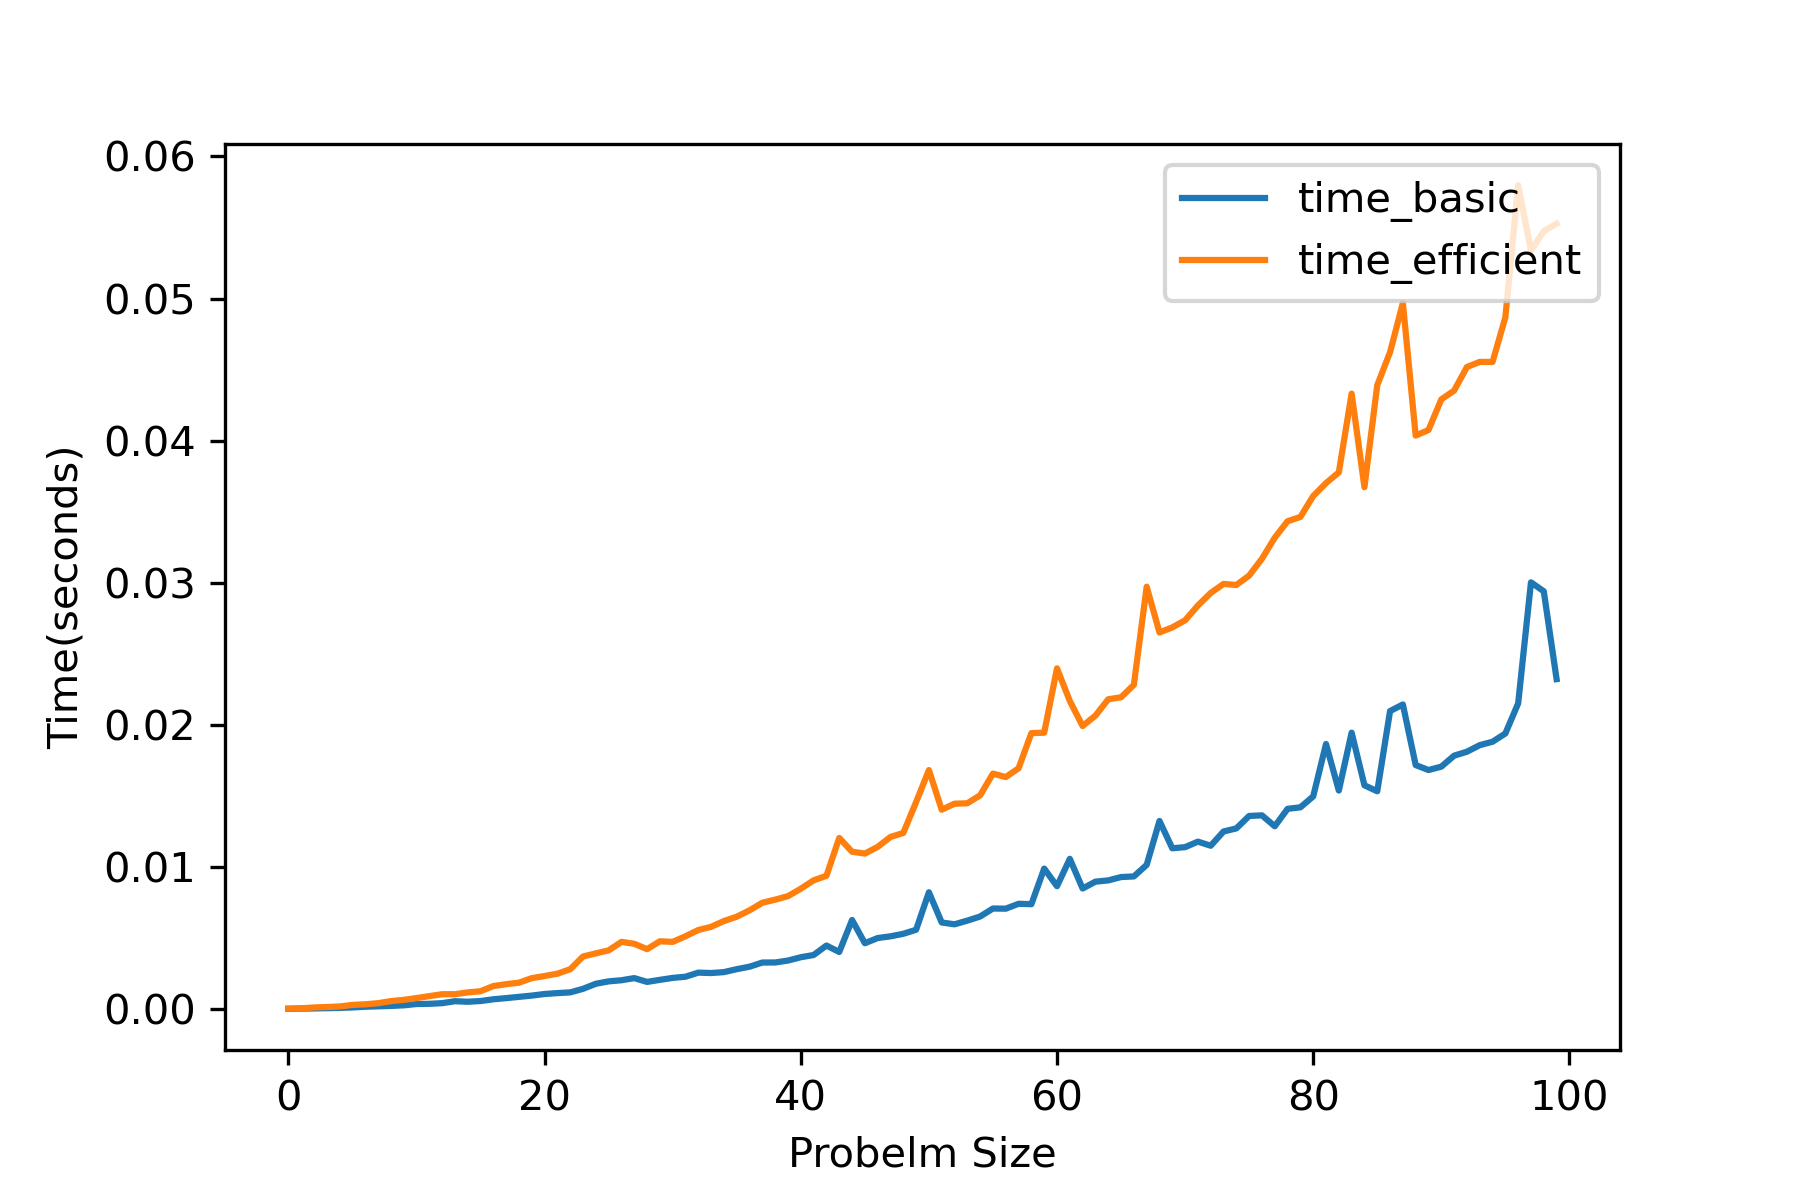
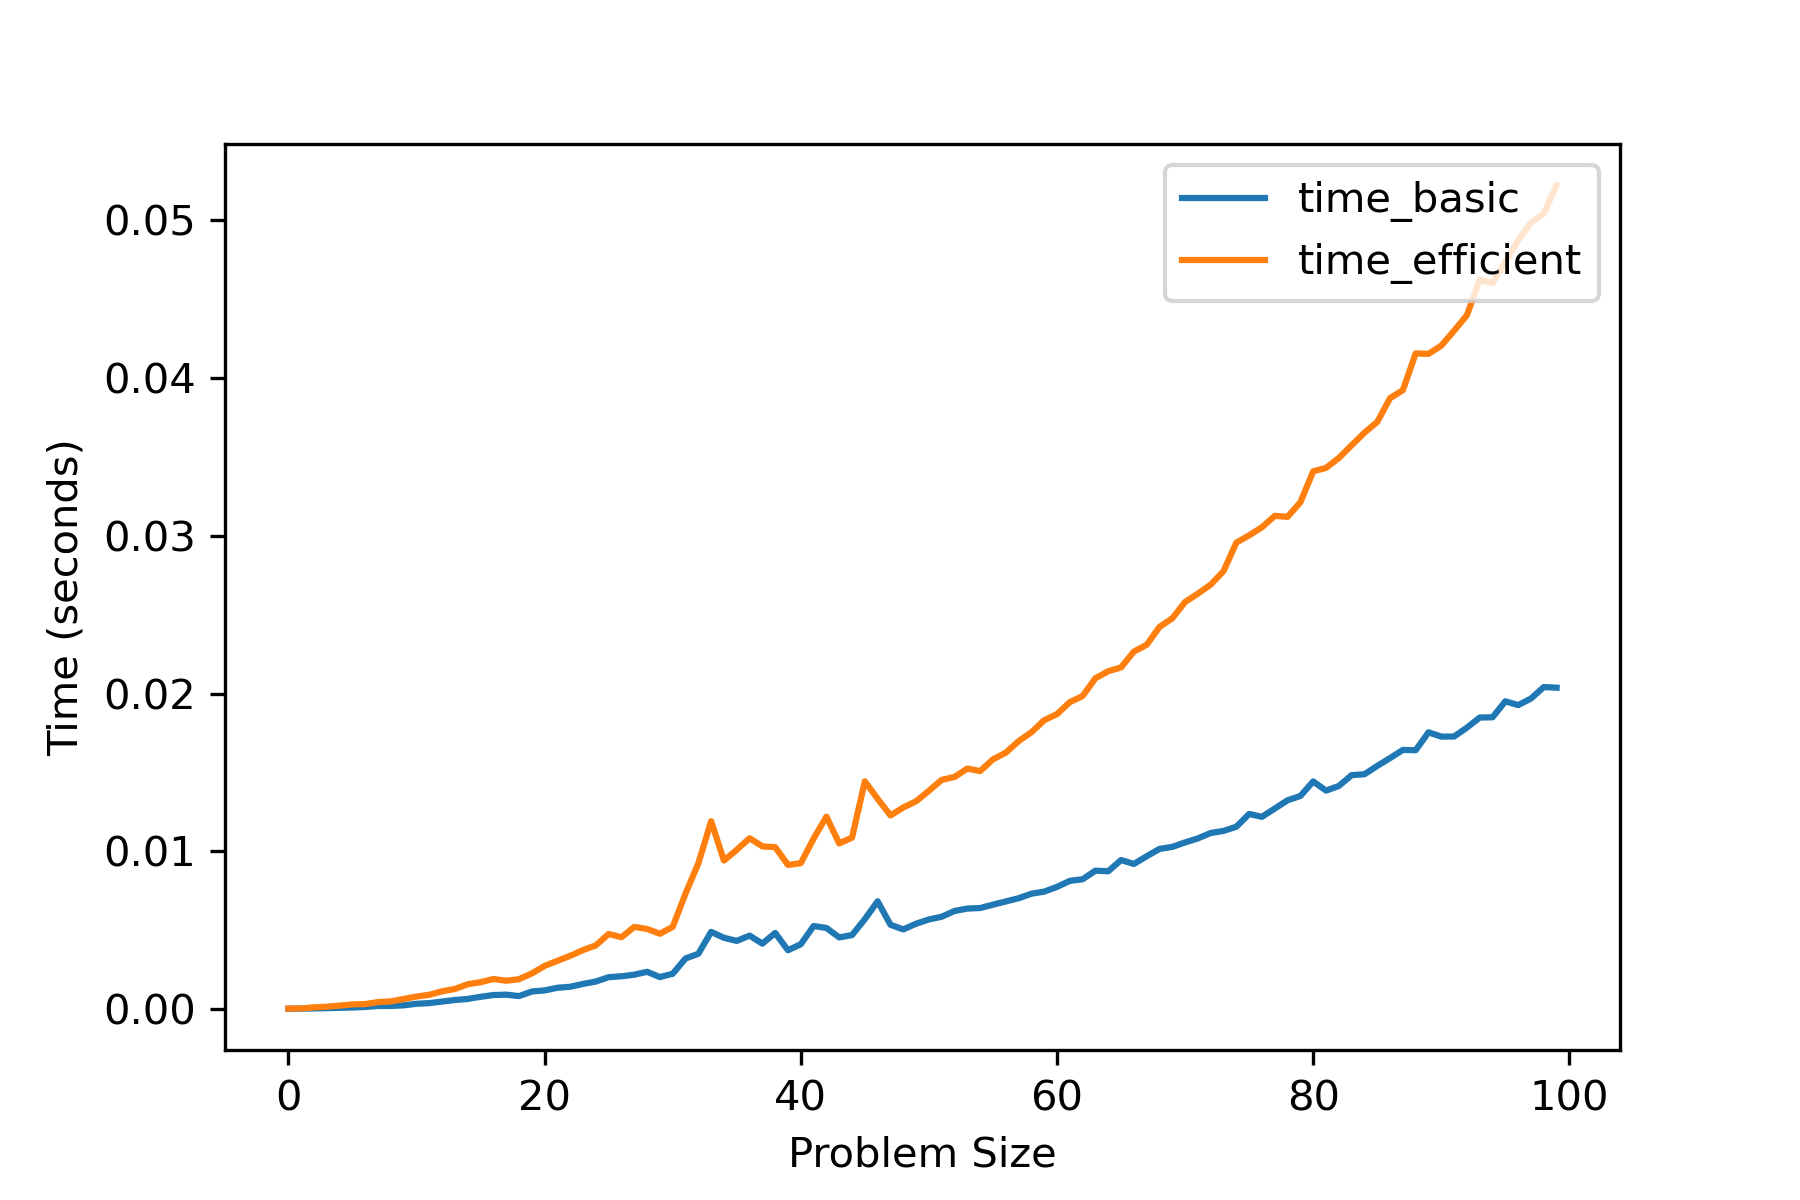
update

diff --git a/graphs.py b/graphs.py
@@ -86,7 +86,7 @@ def generate_graphs():
     plt.plot(memory_comp_df["peak_memory_basic"], label = 'peak_memory_basic')
     plt.plot(memory_comp_df["peak_memory_efficient"], label = 'peak_memory_efficient')
     plt.legend(loc="upper right")
-    plt.xlabel('Probelm Size')
+    plt.xlabel('Problem Size')
     plt.ylabel('Memory (KB)')
     plt.savefig('MemoryPlot.png',dpi=300)
 
@@ -95,8 +95,8 @@ def generate_graphs():
     plt.plot(time_comp_df["time_basic"], label = 'time_basic')
     plt.plot(time_comp_df["time_efficient"], label = 'time_efficient')
     plt.legend(loc="upper right")
-    plt.xlabel('Probelm Size')
-    plt.ylabel('Time(seconds)')
+    plt.xlabel('Problem Size')
+    plt.ylabel('Time (seconds)')
     plt.savefig('CPUPlot.png',dpi=300)
     plt.show()
     
